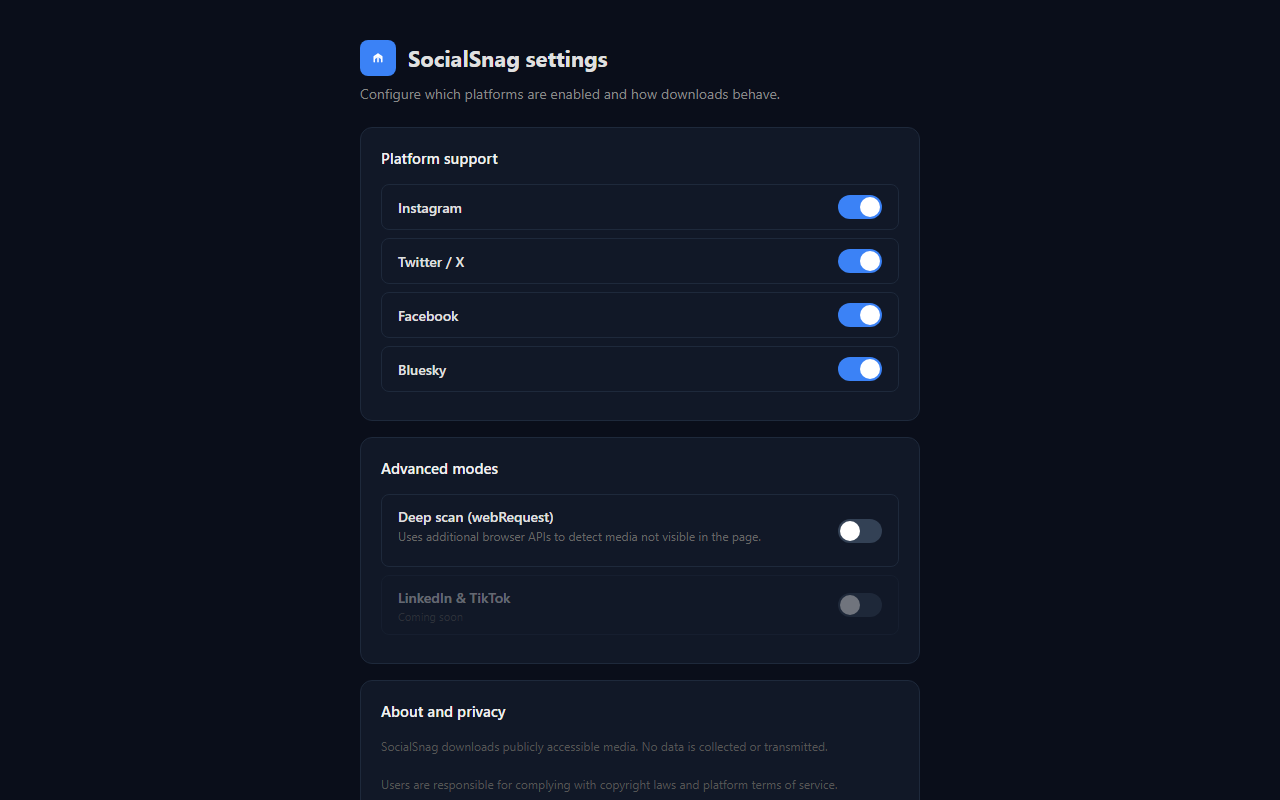
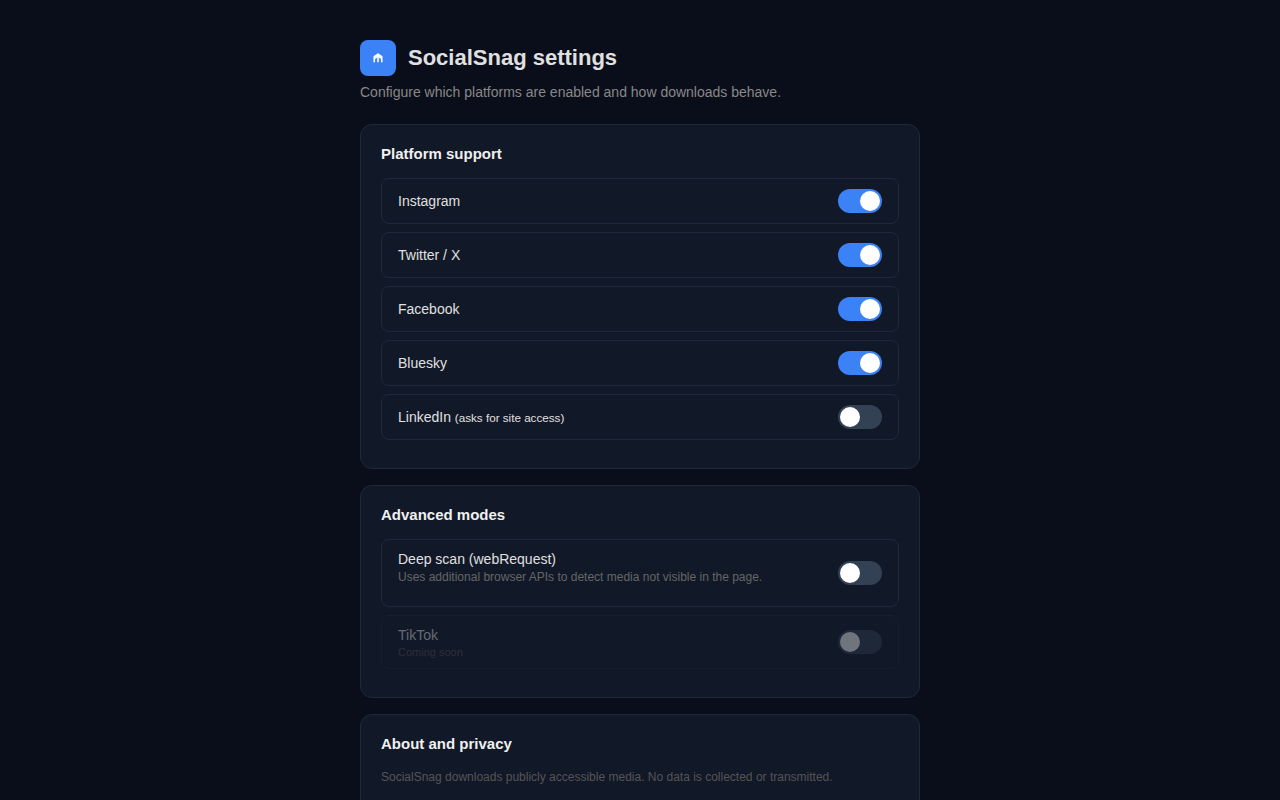
Show LinkedIn as an optional grant in store screenshot mocks (#96)
* Show LinkedIn as an optional grant in store screenshot mocks.

The live options page already treats LinkedIn as a real toggle. The
screenshot generator still labeled it coming soon, so a regenerated
Chrome Web Store asset would contradict the shipped extension.

* Commit the regenerated options screenshot with the LinkedIn grant.

The generator already treated LinkedIn as a real toggle. The Chrome Web
Store upload asset still showed it as coming soon.

diff --git a/store/generate-screenshots.js b/store/generate-screenshots.js
@@ -218,6 +218,7 @@ const optionsPage = `<!DOCTYPE html>
       <div class="toggle-row"><span class="toggle-label">Twitter / X</span><div class="switch on"><div class="knob"></div></div></div>
       <div class="toggle-row"><span class="toggle-label">Facebook</span><div class="switch on"><div class="knob"></div></div></div>
       <div class="toggle-row"><span class="toggle-label">Bluesky</span><div class="switch on"><div class="knob"></div></div></div>
+      <div class="toggle-row"><span class="toggle-label">LinkedIn <small>(asks for site access)</small></span><div class="switch"><div class="knob"></div></div></div>
     </div>
     <div class="card">
       <h2>Advanced modes</h2>
@@ -226,7 +227,7 @@ const optionsPage = `<!DOCTYPE html>
         <div class="switch"><div class="knob"></div></div>
       </div>
       <div class="toggle-row disabled">
-        <div><span class="toggle-label">LinkedIn &amp; TikTok</span><div class="coming-soon">Coming soon</div></div>
+        <div><span class="toggle-label">TikTok</span><div class="coming-soon">Coming soon</div></div>
         <div class="switch"><div class="knob"></div></div>
       </div>
     </div>
